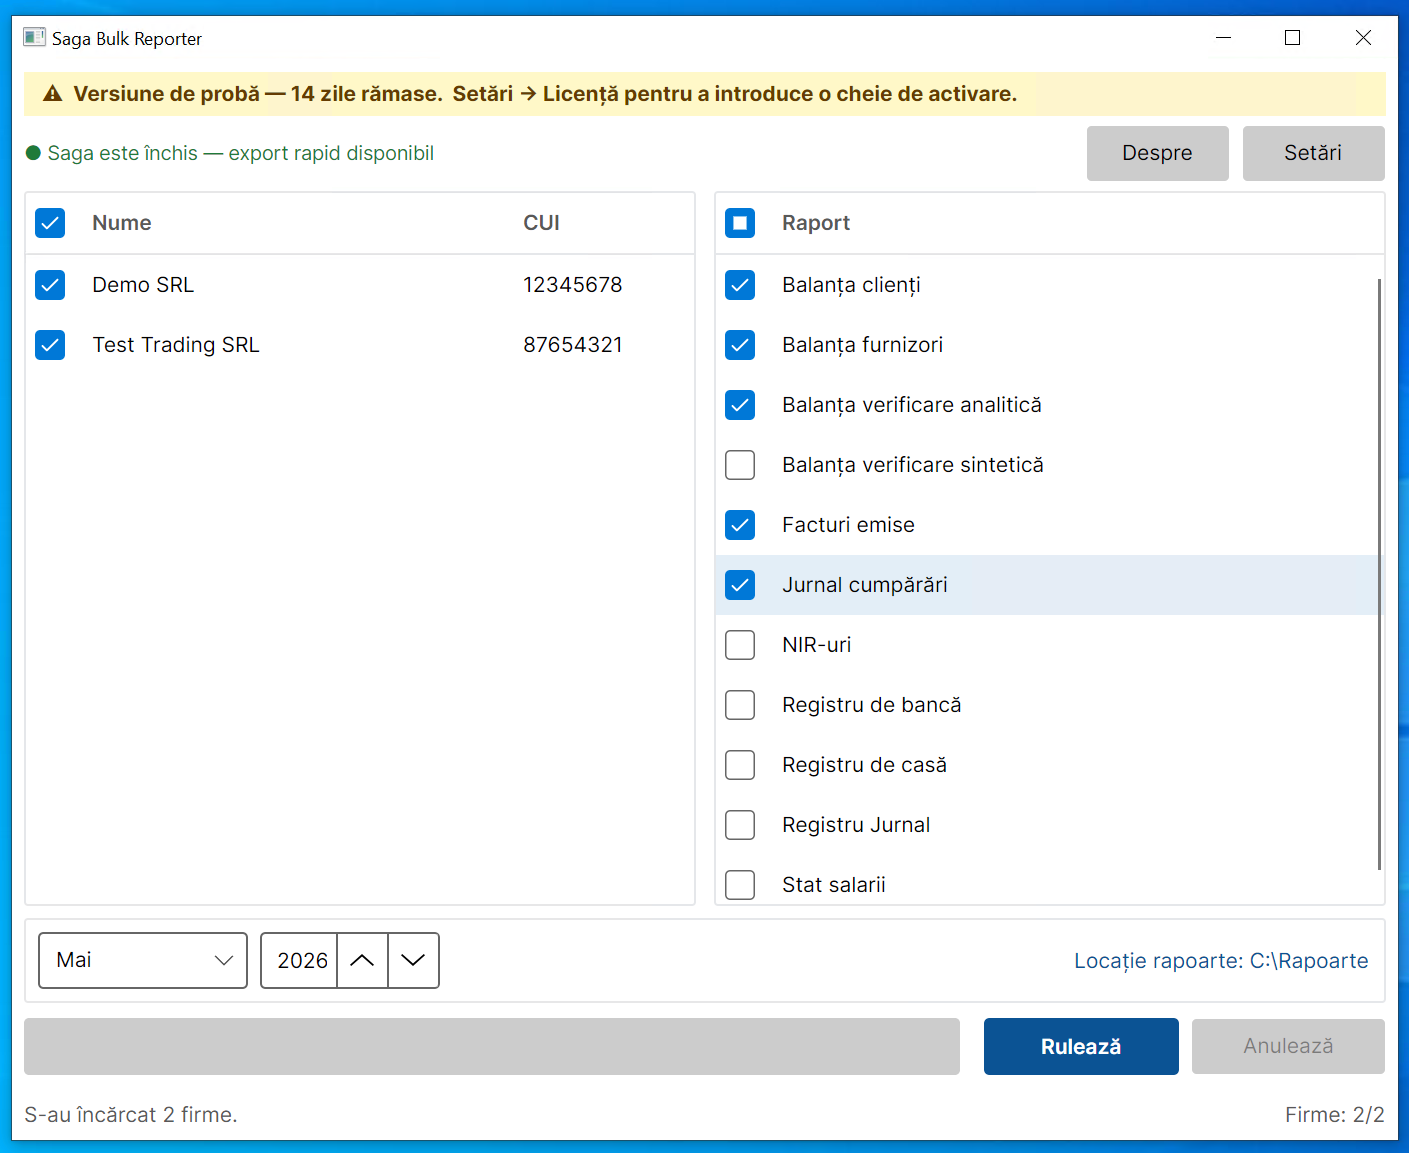
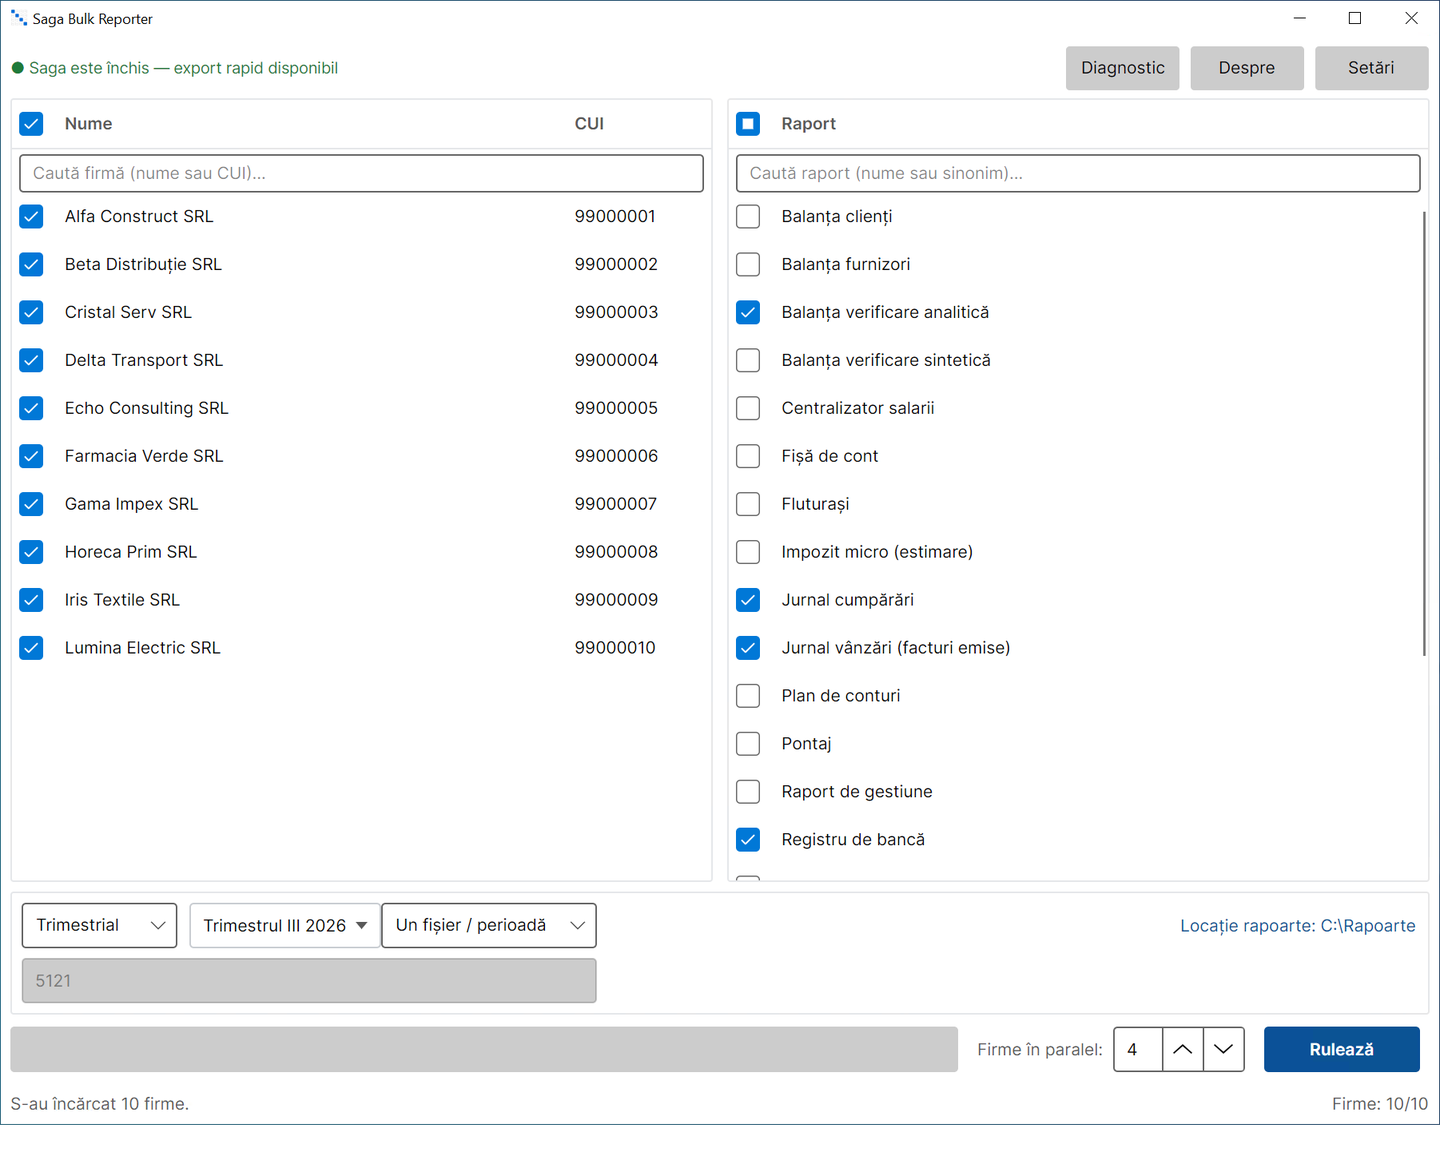
site: re-shoot the screenshots against v1.27.0, and show the Sinteza (#226)
All three screenshots predated the release. Step 2 in particular showed the
old squished month/year dropdowns, no granularity choice, and a report list
missing Balanta de verificare analitica.

Re-shot in a Windows Sandbox against ten fictional demo firms, so no client
name or CIF appears anywhere. The trial banner is spliced out of both app
shots by detecting the yellow band rather than a fixed offset, and the
sandbox desktop is trimmed from the edges.

Step 2 now shows what the release actually added: Trimestrial, the quarter
picker, «Un fisier / perioada», and Balanta analitica ticked in the list.
Step 3 shows a real export tree with monthly and T1 folders side by side.

The Sinteza financiara gets its own section rather than a fourth step: the
steps grid is repeat(3, 1fr), and an A4 page in a 5/4 box would letterbox
into a stamp. It is the one output an accountant forwards to a client and it
appeared nowhere on the site.

Aspect ratios are matched to the CSS boxes by padding with the window's own
background, never by cropping content, since both boxes are object-fit:
contain.

Changed region(s): [[0.0, 0.0, 1.0, 1.0], [0.3747, 0.1562, 0.4684, 0.5938], [0.0625, 0.5625, 0.1249, 0.5938]]

diff --git a/index.html b/index.html
@@ -619,6 +619,49 @@
             opacity: 0.92;
         }
 
+        /* --- Sinteza showcase --- */
+        .sinteza__grid {
+            display: grid;
+            grid-template-columns: 1fr 1fr;
+            gap: 56px;
+            align-items: center;
+            margin-top: 48px;
+        }
+
+        .sinteza__text p {
+            color: var(--gray-500);
+        }
+
+        .sinteza__list {
+            margin-top: 20px;
+            padding-left: 20px;
+        }
+
+        .sinteza__list li {
+            margin-bottom: 10px;
+            color: var(--gray-500);
+        }
+
+        /* Portrait A4, unlike every other screenshot on the page. The ratio is
+           the asset's own, so `contain` letterboxes nothing; max-width keeps a
+           2305px-tall page from dominating the section. */
+        .sinteza__doc {
+            width: 100%;
+            max-width: 440px;
+            aspect-ratio: 1648 / 1902;
+            object-fit: contain;
+            display: block;
+            margin: 0 auto;
+            border: 1px solid var(--gray-200);
+            background-color: var(--gray-100);
+            cursor: zoom-in;
+            transition: opacity var(--transition-fast);
+        }
+
+        .sinteza__doc:hover {
+            opacity: 0.92;
+        }
+
         .step__screenshot-placeholder {
             margin-top: 24px;
             width: 100%;
@@ -1014,6 +1057,11 @@
             .steps {
                 grid-template-columns: 1fr;
                 gap: 48px;
+            }
+
+            .sinteza__grid {
+                grid-template-columns: 1fr;
+                gap: 32px;
             }
 
             .step {
@@ -1674,13 +1722,13 @@
                     <div class="step__number">02</div>
                     <h4 class="step__title">Alegeți rapoartele și perioada</h4>
                     <p class="step__description">
-                        Bifați rapoartele dorite (balanțe, jurnal, registre etc.) și intervalul de luni. Aplicația se ocupă de combinațiile firmă × lună × raport.
+                        Bifați rapoartele dorite (balanțe, jurnal, registre etc.) și perioada: lună, trimestru sau semestru, într-un singur fișier sau fișiere lunare. Aplicația se ocupă de combinațiile firmă × perioadă × raport.
                     </p>
                     <a href="images/screenshot-2.png" class="glightbox" data-gallery="screenshots"
-                       data-title="Pasul 2: Alegerea rapoartelor și a perioadei">
+                       data-title="Pasul 2: Alegerea rapoartelor și a perioadei (lună, trimestru sau semestru)">
                         <img
                             src="images/screenshot-2.png"
-                            alt="Pasul 2: Alegerea rapoartelor și a perioadei"
+                            alt="Pasul 2: Alegerea rapoartelor și a perioadei (lună, trimestru sau semestru)"
                             class="step__screenshot"
                             onerror="this.style.display='none';this.parentElement.nextElementSibling.style.display='flex'"
                         >
@@ -1809,6 +1857,45 @@
                 <div class="report-card" style="background-color: var(--gray-50);">
                     <div class="report-card__name">Format SAGA 3.x</div>
                     <div class="report-card__detail">Toate rapoartele citite direct din baza Firebird a Saga 3.x.</div>
+                </div>
+            </div>
+        </div>
+    </section>
+
+    <!-- ===== SINTEZĂ FINANCIARĂ ===== -->
+    <section class="section" id="sinteza">
+        <div class="container">
+            <div class="section__header">
+                <div class="label">Raport pentru client</div>
+                <h2>Sinteza financiară</h2>
+                <div class="divider divider--blue"></div>
+                <p>Singurul raport din listă scris pentru client, nu pentru contabil.</p>
+            </div>
+            <div class="sinteza__grid">
+                <div class="sinteza__text">
+                    <p>
+                        O pagină pe care o trimiteți mai departe fără să o mai prelucrați: cifrele lunii,
+                        explicate în română, cu sigla cabinetului dumneavoastră în antet.
+                    </p>
+                    <ul class="sinteza__list">
+                        <li>Vânzări, încasări, plăți, rezultat de casă și disponibil, fiecare cu evoluția față de luna trecută.</li>
+                        <li>Cifra de afaceri și profitul cumulate pe an, cu grafic lunar și linia de marjă.</li>
+                        <li>Clienți de încasat, furnizori de plătit și cheltuielile lunii.</li>
+                        <li>Card de TVA (decont și sold 4423/4424), afișat doar la plătitorii de TVA.</li>
+                        <li>Se generează în serie, ca orice alt raport: o rulare acoperă toate firmele.</li>
+                    </ul>
+                </div>
+                <a href="images/screenshot-4-sinteza.png" class="glightbox" data-gallery="screenshots"
+                   data-title="Sinteza financiară: raportul de o pagină pentru client">
+                    <img
+                        src="images/screenshot-4-sinteza.png"
+                        alt="Sinteza financiară: raport de o pagină pentru client, cu indicatorii lunii, grafice de evoluție și cardul de TVA"
+                        class="sinteza__doc"
+                        onerror="this.style.display='none';this.parentElement.nextElementSibling.style.display='flex'"
+                    >
+                </a>
+                <div class="step__screenshot-placeholder" style="display:none">
+                    Captură: sinteza financiară
                 </div>
             </div>
         </div>
